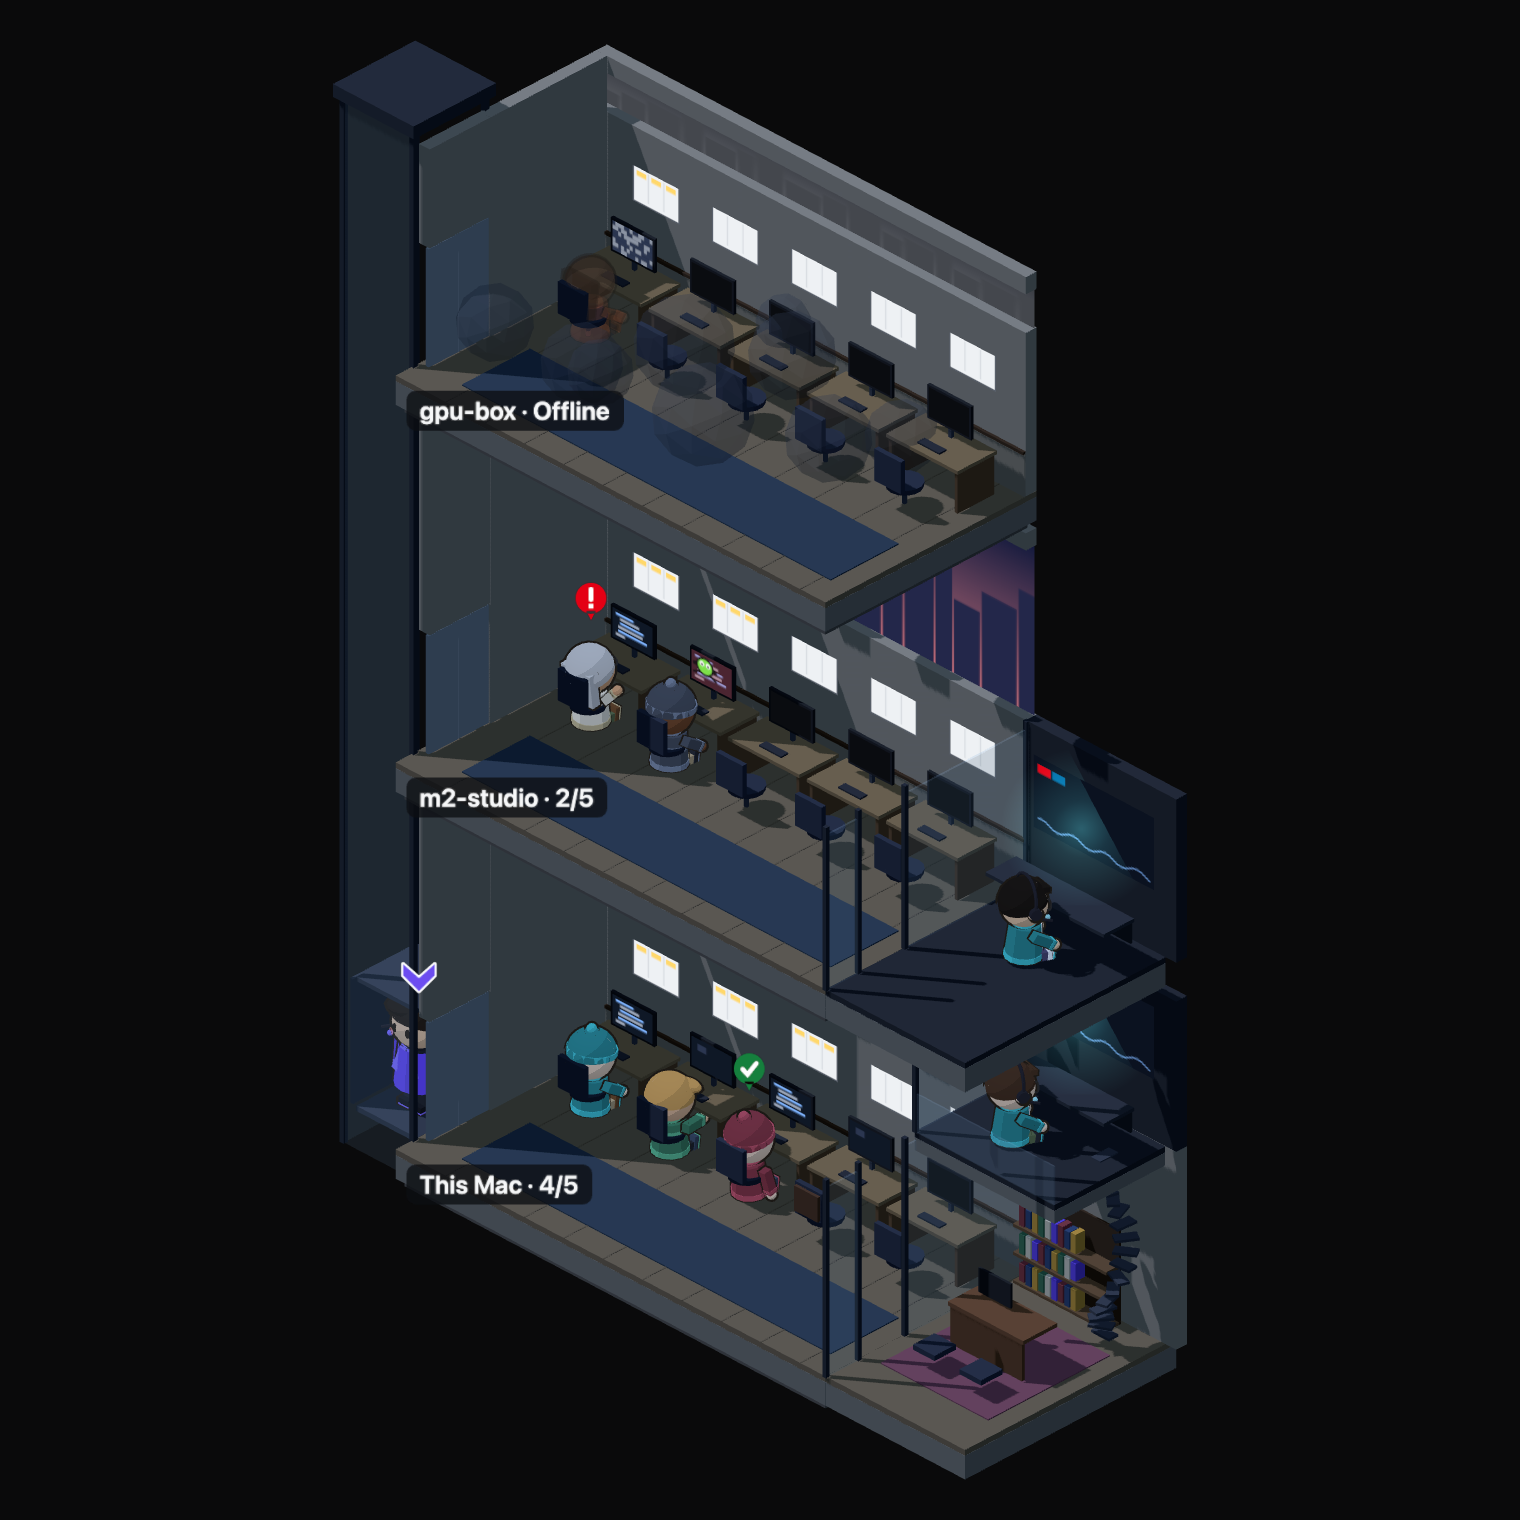
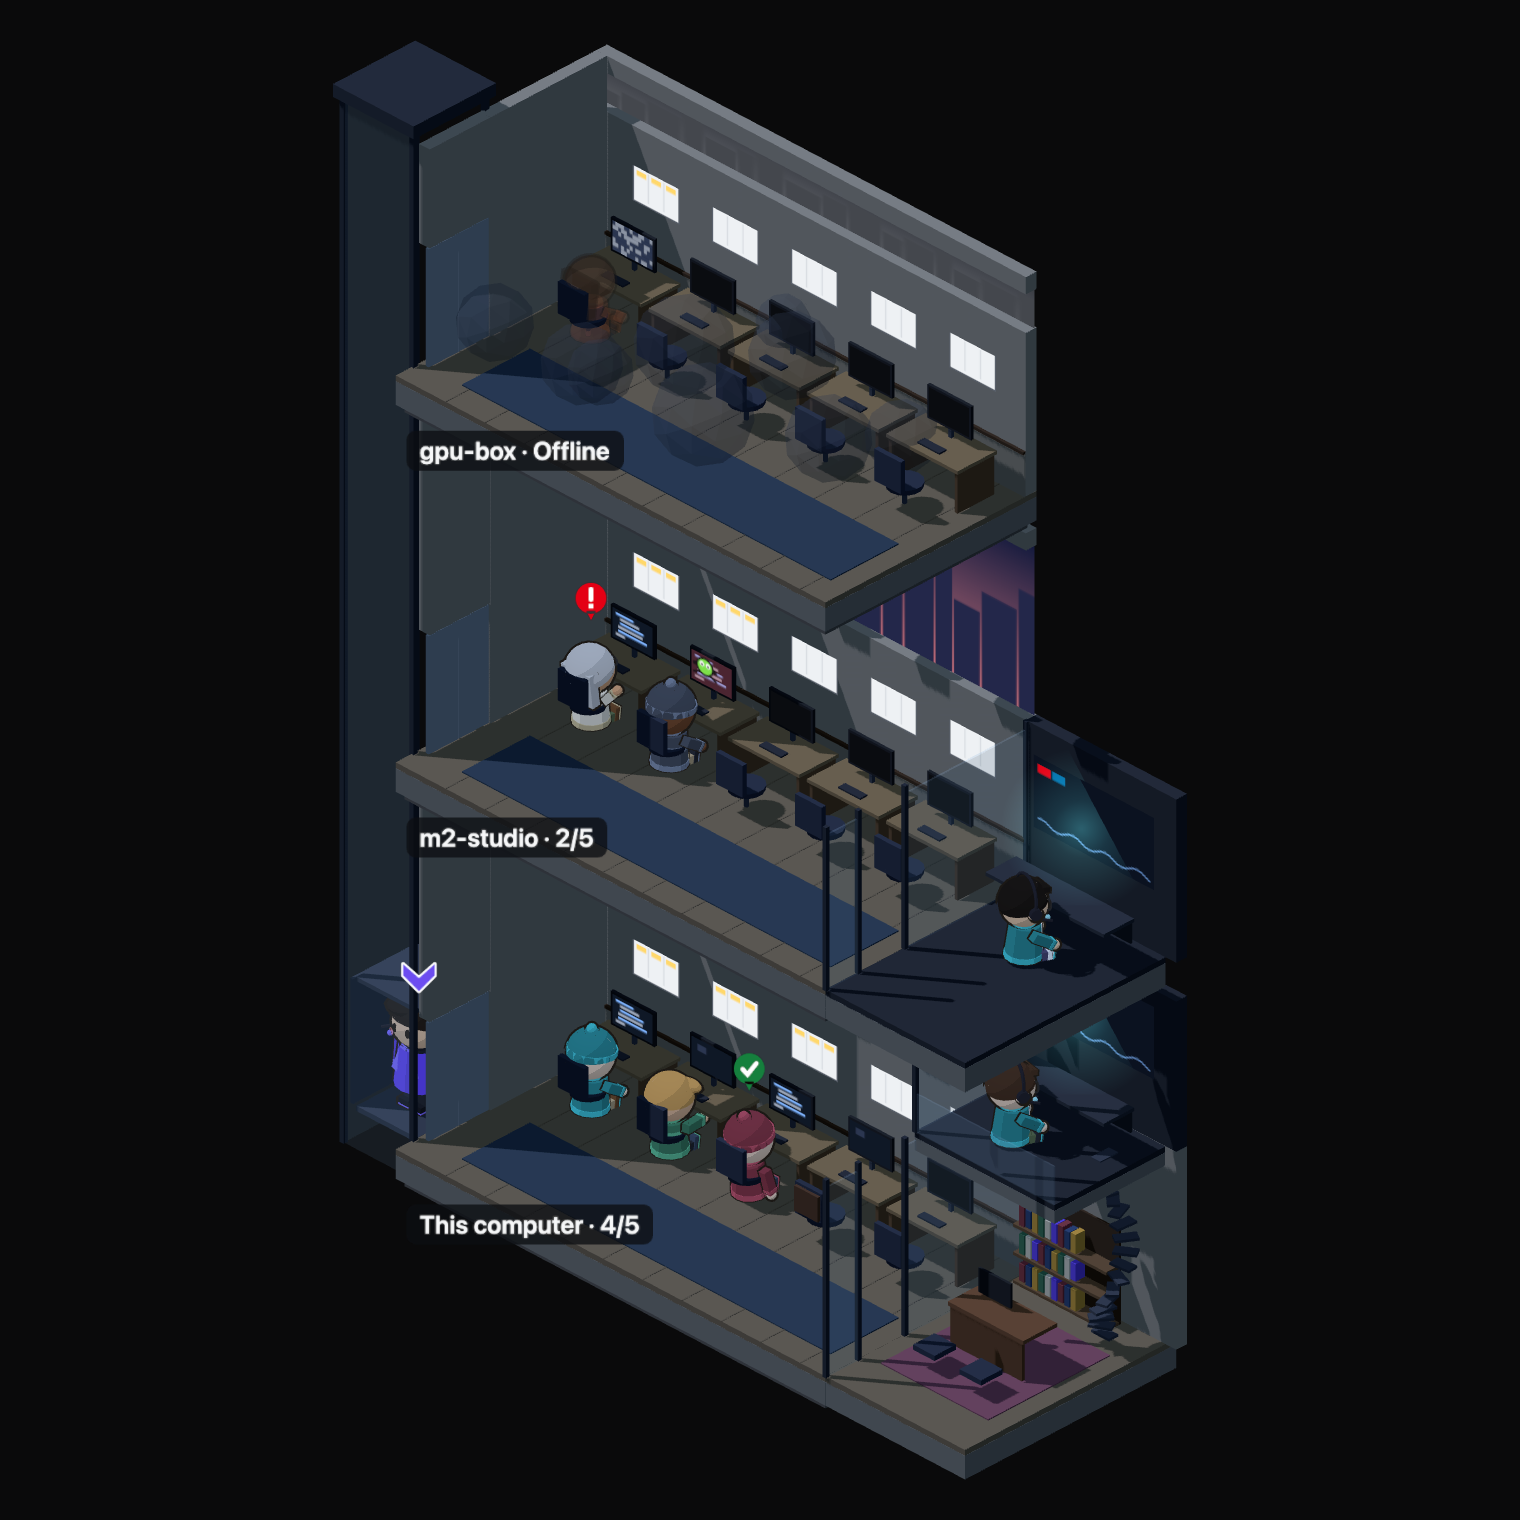
evidence(ORCA-1302): refresh 5b captures with the labels hung from the slab edge (#1401 at 4ffcfa6a3)

Changed region(s): [[0.2474, 0.7421, 0.4329, 0.8349], [0.2474, 0.4947, 0.402, 0.5875], [0.2474, 0.2474, 0.4329, 0.3092]]

diff --git a/phase2/5b-fixes/entry.ts b/phase2/5b-fixes/entry.ts
@@ -1,0 +1,27 @@
+import { teamOffice3dLayoutOf } from '/Users/fabolivar/orca/workspaces/orca-oss/orca-1302/src/shared/team-scene/team-office3d-layout'
+import { office3dStage } from '/Users/fabolivar/orca/workspaces/orca-oss/orca-1302/src/renderer/src/components/team-scene/team-office3d-stage'
+import { dioramaRenderer } from '/Users/fabolivar/orca/workspaces/orca-oss/orca-1302/src/renderer/src/components/team-scene/team-diorama-stage'
+
+const q = new URLSearchParams(location.search)
+const dark = q.get('theme') === 'dark'
+const width = Number(q.get('w') ?? 350)
+document.documentElement.classList.toggle('dark', dark)
+document.body.style.background = dark ? '#0a0a0b' : '#ffffff'
+const host = (name: string) => (name ? { kind: 'remote', name, environmentId: 'e-' + name, reachable: name !== 'gpu-box' } : { kind: 'local' })
+const floor = (key: string, keys: string[], decided: boolean, reachable = true, taken = 0) => ({
+  key, host: host(key), members: keys.map((paneKey) => ({ paneKey, decisions: decided ? [{ id: 'd', verdict: 'allow', gesture: null }] : [] })),
+  cap: 5, running: keys.length, reachable, lead: key === '', taken, free: 5 - keys.length - taken
+})
+const site = { stage: 2, broken: false }
+const m = (key: string, activity: string, over = {}) => ({ key, name: key, characterKey: null, activity, reportId: null, mergedPr: null, site, ...over })
+const members = [m('a', 'working'), m('b', 'resting'), m('c', 'done'), m('d', 'needsYou'), m('e', 'working', { ci: 'failure' }), m('f', 'working')]
+const layout = teamOffice3dLayoutOf([floor('', ['a', 'b', 'c'], false, true, 1), floor('m2-studio', ['d', 'e'], true), floor('gpu-box', ['f'], false, false)] as never, { leadAdvisor: true })
+const status = { attention: '#e40014', done: '#15803d', working: '#0369a1', risk: '#b45309' }
+const canvas = document.querySelector('canvas')!
+const stage = office3dStage(dioramaRenderer(canvas, true)!, {
+  width, dark, status, layout, pace: 'normal',
+  input: { lead: { key: 'lead', name: 'Lead', characterKey: null, activity: 'working' }, advisor: { line: null }, members } as never,
+  words: { thisMachine: 'This computer', offline: 'Offline' }
+})
+stage.draw(Number(q.get('t') ?? 9))
+;(window as never as { done: boolean }).done = true

diff --git a/phase2/5b-fixes/README.md b/phase2/5b-fixes/README.md
@@ -1,8 +1,8 @@
 # ORCA-1302 PR 5b: the five defects fixed, stage rendered in isolation
 
-Branch `fabolivark/orca-1302-5b-component` at f91dc7939, stacked on #1399. Same fixture, frame and harness as `../5a-stage/`: panel 219, 320, 350 and the large view (760), both themes.
+PR #1401 at 4ffcfa6a3 (on main). Refreshed: labels in their current position, hung from each slab's front edge; this machine named 'This computer' as in the app. Same fixture, frame and harness as `../5a-stage/`: panel 219, 320, 350 and the large view (760), both themes.
 
-1. Floor labels moved to each slab's front edge. They no longer cover the first desk or its member, at any width.
+1. Floor labels hang from each slab's front edge, under their floor. They no longer cover the first desk or any member, at any width, even 'This computer · 4/5' at 219.
 2. At panel 219 the lead is inside the frame. The glass shaft's posts are solid, so the camera fit includes the lift.
 3. Glass lift shaft beside every floor's door. The cab has a back wall, a ceiling and a lamp.
 4. Status marks over the seated members' heads, drawn by the 2D Office's `drawSceneEmote`: '!' for needs you and '✓' for done here.
